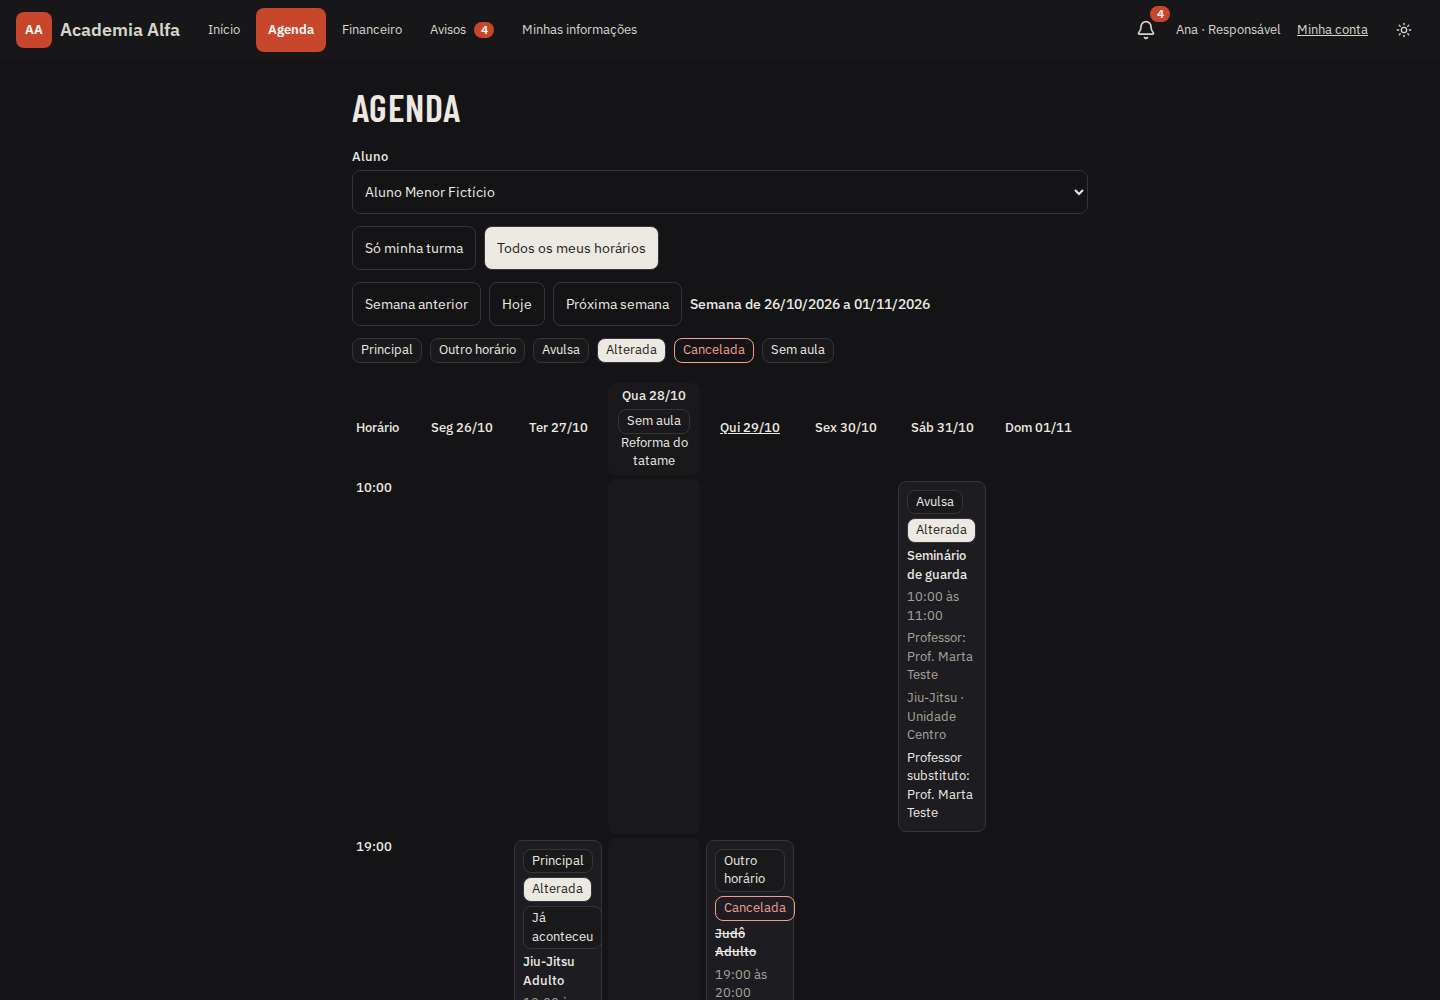
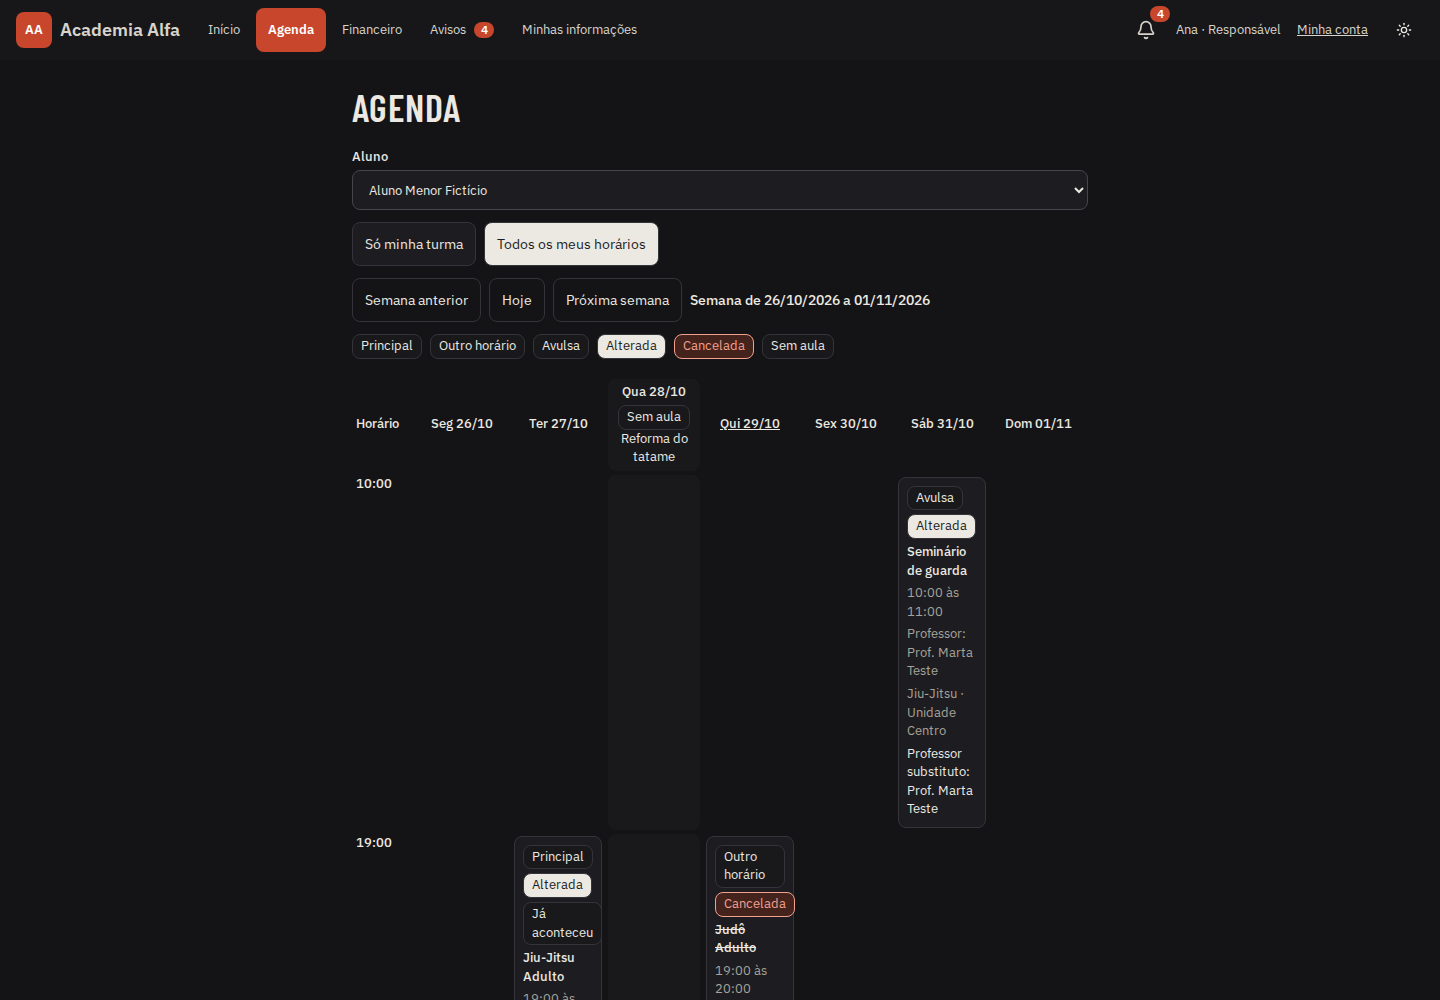
#423: Páginas do portal do aluno e do responsável no visual do canvas (Sprint 10)

diff --git a/frontend/src/features/portal/PortalAnnouncementsPage.tsx b/frontend/src/features/portal/PortalAnnouncementsPage.tsx
@@ -1,4 +1,5 @@
 import { PageHeader } from "@/components/ui/page-header";
+import { Select } from "@/components/ui/field";
 import { useState } from "react";
 import { useTranslation } from "react-i18next";
 import { useSearchParams } from "react-router";
@@ -10,7 +11,7 @@ import { markAllPortalAnnouncementsRead, usePortalAnnouncements, type Announceme
 
 const SLUG = { ALL: "todos", UNREAD: "nao-lidos", MODALITY: "modalidade" } as const;
 const FILTERS: AnnouncementFilter[] = ["ALL", "UNREAD", "MODALITY"];
-const button = (on: boolean) => `min-h-11 rounded-md border px-3 ${on ? "bg-primary text-primary-foreground" : "bg-background"}`;
+const button = (on: boolean) => `min-h-11 rounded-md border px-3 ${on ? "bg-primary text-primary-foreground" : "bg-card"}`;
 
 // RF-POR-06: avisos do aluno em `?aluno=`, `?filtro=`, `?modalidade=`, `?pagina=` e `?aviso=` (aberto). Abrir grava a leitura; "Marcar todos" só limpa a lista e o sino.
 export function PortalAnnouncementsPage() {
@@ -63,8 +64,7 @@ export function PortalAnnouncementsPage() {
           {shown.students.length > 1 && (
             <label className="flex flex-col gap-1">
               <span className="text-sm font-medium">{t("portalAnnouncements.student")}</span>
-              <select
-                className="min-h-11 rounded-md border bg-background px-2"
+              <Select
                 value={student ?? shown.studentId}
                 onChange={(e) => change({ aluno: e.target.value, pagina: null, modalidade: null, filtro: filter === "MODALITY" ? null : slug })}
               >
@@ -73,7 +73,7 @@ export function PortalAnnouncementsPage() {
                     {s.self ? t("portalAnnouncements.you") : s.name}
                   </option>
                 ))}
-              </select>
+              </Select>
             </label>
           )}
           <div role="group" aria-label={t("portalAnnouncements.filterLabel")} className="flex flex-wrap gap-2">
@@ -92,13 +92,13 @@ export function PortalAnnouncementsPage() {
           {filter === "MODALITY" && (
             <label className="flex flex-col gap-1">
               <span className="text-sm font-medium">{t("portalAnnouncements.modality")}</span>
-              <select className="min-h-11 rounded-md border bg-background px-2" value={modality ?? shown.modalities[0]?.id ?? ""} onChange={(e) => change({ modalidade: e.target.value, pagina: null })}>
+              <Select value={modality ?? shown.modalities[0]?.id ?? ""} onChange={(e) => change({ modalidade: e.target.value, pagina: null })}>
                 {shown.modalities.map((m) => (
                   <option key={m.id} value={m.id}>
                     {m.name}
                   </option>
                 ))}
-              </select>
+              </Select>
             </label>
           )}
           <div className="flex flex-wrap items-center gap-3">
@@ -106,7 +106,7 @@ export function PortalAnnouncementsPage() {
               {t("portalAnnouncements.markAll")}
             </button>
             {message && (
-              <p role={message.ok ? "status" : "alert"} className={`text-sm ${message.ok ? "" : "text-destructive"}`}>
+              <p role={message.ok ? "status" : "alert"} className={`text-sm ${message.ok ? "" : "text-danger-foreground"}`}>
                 {message.text}
               </p>
             )}

diff --git a/frontend/src/features/portal/PortalContactDialog.tsx b/frontend/src/features/portal/PortalContactDialog.tsx
@@ -1,4 +1,5 @@
 import { useState } from "react";
+import { Select } from "@/components/ui/field";
 import { useTranslation } from "react-i18next";
 import { PhoneField } from "@/components/fields/fields";
 import { formatCep, isValidPhone, onlyDigits } from "@/components/fields/masks";
@@ -83,14 +84,14 @@ export function PortalContactDialog({ studentId, personal, onClose, onSaved }: {
         }}
       >
         {errors.form && (
-          <p role="alert" className="text-sm text-destructive">
+          <p role="alert" className="text-sm text-danger-foreground">
             {errors.form}
           </p>
         )}
         <div>
           <PhoneField label={t(`${k}phone`)} initial={phone} onChange={setPhone} autoComplete="tel" />
           {errors.phone && (
-            <p role="alert" className="text-sm text-destructive">
+            <p role="alert" className="text-sm text-danger-foreground">
               {errors.phone}
             </p>
           )}
@@ -105,15 +106,15 @@ export function PortalContactDialog({ studentId, personal, onClose, onSaved }: {
           <label htmlFor="pc-state" className="block text-sm font-medium">
             {t(`${k}state`)}
           </label>
-          <select id="pc-state" className="min-h-11 w-full rounded-md border bg-background px-2" value={state} aria-invalid={!!errors.state || undefined} onChange={(ev) => setState(ev.target.value)}>
+          <Select id="pc-state" value={state} aria-invalid={!!errors.state || undefined} onChange={(ev) => setState(ev.target.value)}>
             <option value="">{t(`${k}stateChoose`)}</option>
             {STATES.map((s) => (
               <option key={s} value={s}>
                 {s}
               </option>
             ))}
-          </select>
-          {errors.state && <p className="text-sm text-destructive">{errors.state}</p>}
+          </Select>
+          {errors.state && <p className="text-sm text-danger-foreground">{errors.state}</p>}
         </div>
         <fieldset className="flex flex-col gap-3">
           <legend className="text-sm font-semibold">{t(`${k}emergency`)}</legend>
@@ -122,7 +123,7 @@ export function PortalContactDialog({ studentId, personal, onClose, onSaved }: {
           <div>
             <PhoneField label={t(`${k}emergencyPhone`)} initial={emergencyPhone} onChange={setEmergencyPhone} />
             {errors.emergencyPhone && (
-              <p role="alert" className="text-sm text-destructive">
+              <p role="alert" className="text-sm text-danger-foreground">
                 {errors.emergencyPhone}
               </p>
             )}

diff --git a/frontend/src/features/portal/PortalAgendaPage.tsx b/frontend/src/features/portal/PortalAgendaPage.tsx
@@ -1,4 +1,5 @@
 import { PageHeader } from "@/components/ui/page-header";
+import { Select } from "@/components/ui/field";
 import { useEffect, useState } from "react";
 import { useTranslation } from "react-i18next";
 import { useSearchParams } from "react-router";
@@ -59,13 +60,13 @@ export function PortalAgendaPage() {
           {shown.students.length > 1 && (
             <label className="flex flex-col gap-1">
               <span className="text-sm font-medium">{t("portalAgenda.student")}</span>
-              <select className="min-h-11 rounded-md border bg-background px-2" value={student ?? shown.studentId} onChange={(e) => change({ aluno: e.target.value })}>
+              <Select value={student ?? shown.studentId} onChange={(e) => change({ aluno: e.target.value })}>
                 {shown.students.map((s) => (
                   <option key={s.id} value={s.id}>
                     {s.self ? t("portalAgenda.you") : s.name}
                   </option>
                 ))}
-              </select>
+              </Select>
             </label>
           )}
           <div role="group" aria-label={t("portalAgenda.scopeLabel")} className="flex flex-wrap gap-2">
@@ -74,7 +75,7 @@ export function PortalAgendaPage() {
                 key={s}
                 type="button"
                 aria-pressed={scope === s}
-                className={`min-h-11 rounded-md border px-3 ${scope === s ? "bg-primary text-primary-foreground" : "bg-background"}`}
+                className={`min-h-11 rounded-md border px-3 ${scope === s ? "bg-primary text-primary-foreground" : "bg-card"}`}
                 onClick={() => change({ escopo: s === "MAIN" ? "MAIN" : null })}
               >
                 {t(s === "MAIN" ? "portalAgenda.scopeMain" : "portalAgenda.scopeAll")}

diff --git a/frontend/visual/casos.ts b/frontend/visual/casos.ts
@@ -35,6 +35,17 @@ export const casos: Caso[] = [
   { nome: "portal-celular-topo", rota: "/portal/minhas-informacoes", perfil: aluno, canvas: "PortalMTopo" },
   { nome: "portal-celular-abas", rota: "/portal/agenda", perfil: familia, canvas: "PortalMTabs" },
   { nome: "portal-celular-reduzido", rota: "/portal/financeiro", perfil: reduzido, canvas: "PortalMReduzido" },
+  // Páginas do portal do aluno e do responsável (#423). Janelas e estados que o MSW não alcança (comprovante com envio, pedidos por id gerado) ficam sem caso (D2).
+  { nome: "portal-inicio-responsavel", rota: "/", perfil: familia, canvas: "PortalResponsavel" },
+  { nome: "portal-termo", rota: "/portal/termo", perfil: aluno, canvas: "PortalTermo" },
+  { nome: "portal-termo-filhos", rota: "/portal/termo", perfil: familia, canvas: "PortalTermoFilhos" },
+  { nome: "portal-agenda", rota: "/portal/agenda", perfil: aluno, canvas: "PortalAgenda" },
+  { nome: "portal-avisos", rota: "/portal/avisos", perfil: aluno, canvas: "PortalAvisos" },
+  { nome: "portal-financeiro", rota: "/portal/financeiro", perfil: aluno, canvas: "PortalFinanceiro" },
+  { nome: "portal-informacoes", rota: "/portal/minhas-informacoes", perfil: aluno, canvas: "PortalInfo" },
+  { nome: "portal-carteirinha", rota: "/portal/carteirinha", perfil: aluno, canvas: "PortalCarteirinha" },
+  { nome: "portal-carteirinha-filhos", rota: "/portal/carteirinha", perfil: familia, canvas: "PortalCarteirinhaFilhos" },
+  { nome: "portal-pedidos", rota: "/portal/pedidos", perfil: aluno, canvas: "PortalPedidos" },
   { nome: "alunos", rota: "/alunos", perfil: ana, canvas: "Alunos" },
   { nome: "professores", rota: "/professores", perfil: ana, canvas: "Professores" },
   { nome: "agenda", rota: "/agenda", perfil: ana, canvas: "Agenda" },

diff --git a/frontend/src/features/portal/PortalFinancePage.tsx b/frontend/src/features/portal/PortalFinancePage.tsx
@@ -1,4 +1,5 @@
 import { PageHeader } from "@/components/ui/page-header";
+import { Select } from "@/components/ui/field";
 import { useState } from "react";
 import { useTranslation } from "react-i18next";
 import { useSearchParams } from "react-router";
@@ -42,14 +43,14 @@ export function PortalFinancePage() {
         <div className="mb-4 flex flex-col gap-2">
           <label className="flex flex-col gap-1">
             <span className="text-sm font-medium">{t("portalFinance.student")}</span>
-            <select className="min-h-11 rounded-md border bg-background px-2" value={family ? FAMILY : (student ?? shown.selectedStudentId ?? "")} onChange={(e) => choose(e.target.value)}>
+            <Select value={family ? FAMILY : (student ?? shown.selectedStudentId ?? "")} onChange={(e) => choose(e.target.value)}>
               {shown.students.map((s) => (
                 <option key={s.id} value={s.id}>
                   {s.self ? t("portalFinance.you") : s.name}
                 </option>
               ))}
               <option value={FAMILY}>{t("portalFinance.family")}</option>
-            </select>
+            </Select>
           </label>
           {family && <p className="font-medium">{t("portalFinance.familyTotal", { value: formatCurrency(shown.familyOpenCents) })}</p>}
         </div>

diff --git a/frontend/src/features/portal/PortalRequestDialog.tsx b/frontend/src/features/portal/PortalRequestDialog.tsx
@@ -1,5 +1,6 @@
 import { useId, useState } from "react";
 import { useTranslation } from "react-i18next";
+import { Textarea } from "@/components/ui/field";
 import { ModalityDialog, PickSelect } from "@/features/students/ModalityPickers";
 import type { PortalRequestKind } from "@/features/portal-requests/types";
 import { createRequest, type ModalityOption, type OfferOption } from "./usePortalRequests";
@@ -51,8 +52,8 @@ export function PortalRequestDialog({ studentId, kind, modality, offers, onClose
             <label htmlFor={noteId} className="block text-sm font-medium">
               {t("portalOwn.dialog.note")}
             </label>
-            <textarea id={noteId} className="w-full rounded-md border bg-background p-2" rows={3} maxLength={500} value={note} onChange={(e) => setNote(e.target.value)} />
-            {errors.note && <p className="text-sm text-destructive">{errors.note}</p>}
+            <Textarea id={noteId} maxLength={500} value={note} onChange={(e) => setNote(e.target.value)} />
+            {errors.note && <p className="text-sm text-danger-foreground">{errors.note}</p>}
           </div>
         </>
       )}

diff --git a/frontend/src/features/portal/PortalInfoPage.tsx b/frontend/src/features/portal/PortalInfoPage.tsx
@@ -1,4 +1,5 @@
 import { PageHeader } from "@/components/ui/page-header";
+import { Select } from "@/components/ui/field";
 import { useState } from "react";
 import { useTranslation } from "react-i18next";
 import { Link, useSearchParams } from "react-router";
@@ -48,13 +49,13 @@ export function PortalInfoPage() {
       {list && list.students.length > 1 && (
         <label className="mb-4 flex flex-col gap-1">
           <span className="text-sm font-medium">{t("portalInfo.selector")}</span>
-          <select className="min-h-11 rounded-md border bg-background px-2" value={student ?? list.selectedStudentId} onChange={(e) => setParams({ aluno: e.target.value }, { replace: true })}>
+          <Select value={student ?? list.selectedStudentId} onChange={(e) => setParams({ aluno: e.target.value }, { replace: true })}>
             {list.students.map((s) => (
               <option key={s.id} value={s.id}>
                 {s.self ? t("portalInfo.you") : s.name}
               </option>
             ))}
-          </select>
+          </Select>
         </label>
       )}
       {status === "loading" ? (

diff --git a/frontend/src/features/telasCanvas423.test.ts b/frontend/src/features/telasCanvas423.test.ts
@@ -1,0 +1,19 @@
+import { readFileSync, readdirSync } from "node:fs";
+import { join } from "node:path";
+
+const FIXAS = /#[0-9a-fA-F]{3,8}\b|\b(bg|text|border|ring|fill|stroke)-(white|black)\b|\b(bg|text|border|ring)-(red|gray|grey|green|blue|yellow|orange|slate|zinc)-\d|(text|border)-destructive\b/;
+const dir = join(__dirname, "portal");
+const arquivos = readdirSync(dir).filter((n) => /\.tsx$/.test(n) && !n.includes(".test.")).map((n) => join(dir, n));
+const nome = (f: string) => f.slice(__dirname.length + 1).replaceAll("\\", "/");
+
+describe("telas do portal do aluno e do responsável (#423, CA8)", () => {
+  it("há arquivos para varrer", () => expect(arquivos.length).toBeGreaterThan(30));
+
+  it.each(arquivos.map((f) => [nome(f), f]))("%s não usa cor fixa nem campo solto", (_n, f) => {
+    const src = readFileSync(f, "utf8");
+    expect(src.match(FIXAS)).toBeNull();
+    expect(src).not.toMatch(/border bg-background|min-h-11 w-full rounded/);
+    expect(src).not.toMatch(/<select|<textarea/);
+    expect(src).not.toMatch(/<input(?![^>]*type="(checkbox|radio|file)")/);
+  });
+});

diff --git a/frontend/src/features/portal/PortalHomePage.tsx b/frontend/src/features/portal/PortalHomePage.tsx
@@ -1,4 +1,5 @@
 import { PageHeader } from "@/components/ui/page-header";
+import { Select } from "@/components/ui/field";
 import { useState } from "react";
 import { Link } from "react-router";
 import { useTranslation } from "react-i18next";
@@ -72,14 +73,14 @@ function Sections({ data, filter, onFilter, reload }: { data: PortalHomeData; fi
       {many && (
         <label className="flex flex-col gap-1">
           <span className="text-sm font-medium">{t("portalHome.filter.label")}</span>
-          <select className="min-h-11 rounded-md border bg-background px-2" value={active} onChange={(e) => onFilter(e.target.value)}>
+          <Select value={active} onChange={(e) => onFilter(e.target.value)}>
             <option value={ALL}>{t("portalHome.filter.all")}</option>
             {[...combos].map(([k, text]) => (
               <option key={k} value={k}>
                 {text}
               </option>
             ))}
-          </select>
+          </Select>
         </label>
       )}
       <PortalChargeCard

diff --git a/frontend/src/features/portal/PortalCardPage.tsx b/frontend/src/features/portal/PortalCardPage.tsx
@@ -1,4 +1,5 @@
 import { PageHeader } from "@/components/ui/page-header";
+import { Select } from "@/components/ui/field";
 import { useState } from "react";
 import { useTranslation } from "react-i18next";
 import { useSearchParams } from "react-router";
@@ -23,8 +24,7 @@ export function PortalCardPage() {
       {list && list.students.length > 1 && (
         <label className="mb-4 flex flex-col gap-1">
           <span className="text-sm font-medium">{t("portalCard.selector")}</span>
-          <select
-            className="min-h-11 rounded-md border bg-background px-2"
+          <Select
             value={student ?? list.student.id}
             onChange={(e) => setParams({ aluno: e.target.value }, { replace: true })}
           >
@@ -33,7 +33,7 @@ export function PortalCardPage() {
                 {s.self ? t("portalCard.you") : s.name}
               </option>
             ))}
-          </select>
+          </Select>
         </label>
       )}
       {status === "loading" ? (

diff --git a/frontend/src/features/portal/PortalChargeHistory.tsx b/frontend/src/features/portal/PortalChargeHistory.tsx
@@ -1,4 +1,5 @@
 import { useTranslation } from "react-i18next";
+import { Select } from "@/components/ui/field";
 import { Card } from "@/components/Card";
 import { EmptyState } from "@/components/states";
 import { formatCurrency, formatDate } from "@/lib/format";
@@ -18,13 +19,13 @@ export function PortalChargeHistory({ items, year, years, onYear }: Props) {
       actions={
         <label className="flex items-center gap-2">
           <span className="text-sm font-medium">{t("portalFinance.history.year")}</span>
-          <select className="min-h-11 rounded-md border bg-background px-2" value={year} onChange={(e) => onYear(Number(e.target.value))}>
+          <Select value={year} onChange={(e) => onYear(Number(e.target.value))}>
             {options.map((y) => (
               <option key={y} value={y}>
                 {y}
               </option>
             ))}
-          </select>
+          </Select>
         </label>
       }
     >

diff --git a/frontend/src/features/portal/PortalRequestsPage.tsx b/frontend/src/features/portal/PortalRequestsPage.tsx
@@ -1,4 +1,5 @@
 import { PageHeader } from "@/components/ui/page-header";
+import { Select } from "@/components/ui/field";
 import { useState } from "react";
 import { useTranslation } from "react-i18next";
 import { Card } from "@/components/Card";
@@ -86,13 +87,13 @@ export function PortalRequestsPage() {
         {students.data.length > 1 && (
           <label className="flex flex-col gap-1 text-sm">
             {t("portalOwn.student")}
-            <select className="min-h-11 rounded-md border bg-background px-2" value={id} onChange={(e) => setPicked(e.target.value)}>
+            <Select value={id} onChange={(e) => setPicked(e.target.value)}>
               {students.data.map((s) => (
                 <option key={s.id} value={s.id}>
                   {s.name}
                 </option>
               ))}
-            </select>
+            </Select>
           </label>
         )}
         <Student key={id} studentId={id} />
